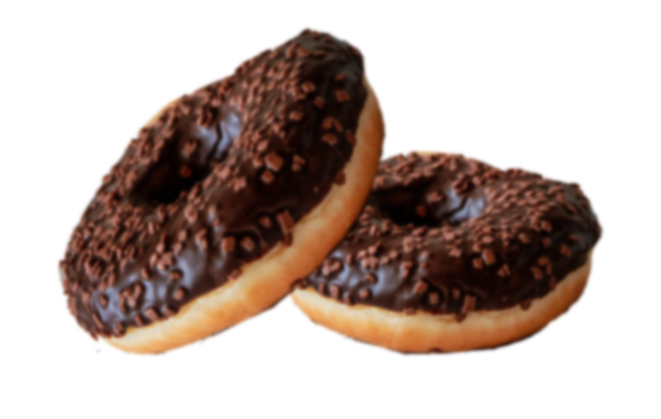
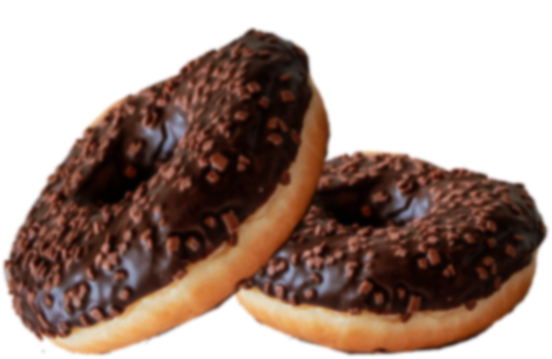
poprawione

diff --git a/src/app/konkursy/konkursy.component.css b/src/app/konkursy/konkursy.component.css
@@ -5,7 +5,7 @@
     background-size: cover;
     background-repeat: no-repeat;
     width: auto;
-    height:110vh;
+    height:120vh;
   }
     
   #test{
@@ -37,7 +37,9 @@
   }
   .png{
     margin-top: 3vw;
+    margin-left: 7vw;
   }
+ 
   #label{
     
     color:rgb(202 138 91);
@@ -49,8 +51,10 @@
  
    @media (min-width: 991px) and (max-width: 1339px) { 
     .png{
-      margin-top: 5vw;
+      margin-top: 3vw;
+      margin-left: 0vw;
     }
+    
     .font{
       color:white;
       font-weight: bold;
@@ -75,7 +79,8 @@
  
    @media   (max-width: 990.99px) { 
     .png{
-      margin-top: 3vw;
+      margin-top: 0vw;
+      margin-left: 0vw;
     }
     .font{
       -webkit-text-stroke: 0px;
@@ -97,7 +102,11 @@
 
     #header{
      
-      height:180vw;
+      height:210vw;
+    }
+    #test{
+      padding-top: 10vh;
+      
     }
    }
  

diff --git a/src/app/konkursy/konkursy.component.html b/src/app/konkursy/konkursy.component.html
@@ -9,9 +9,10 @@
            Do wygrania  <b class="color">złota szpatuła!</b></p></div>
         </div>
         <div class="col-lg">
-            <img  class="img-fluid png"   src="/assets/images/konkursy/donatany_trimmed.png"  alt="paczki" >
+            <img  class="img-fluid png"   src="/assets/images/konkursy/donatan_blur.png"  alt="paczki" >
+            <img  class="img-fluid"   src="/assets/images/konkursy/donatan1.png"  alt="paczki" >
         </div>
     </div>
 
-                        </div>
+     </div>
  </div>
